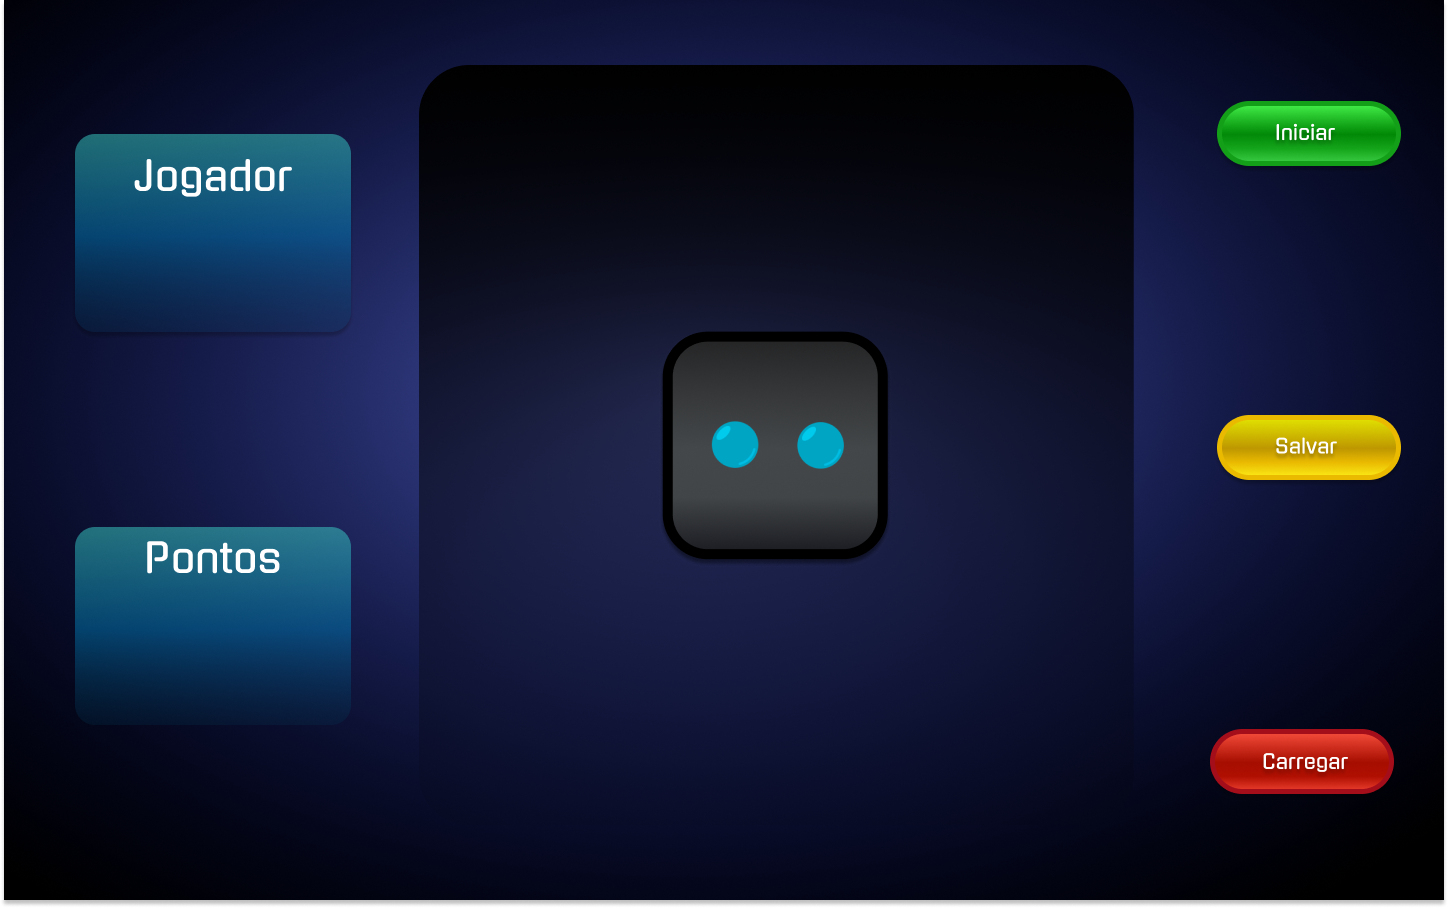
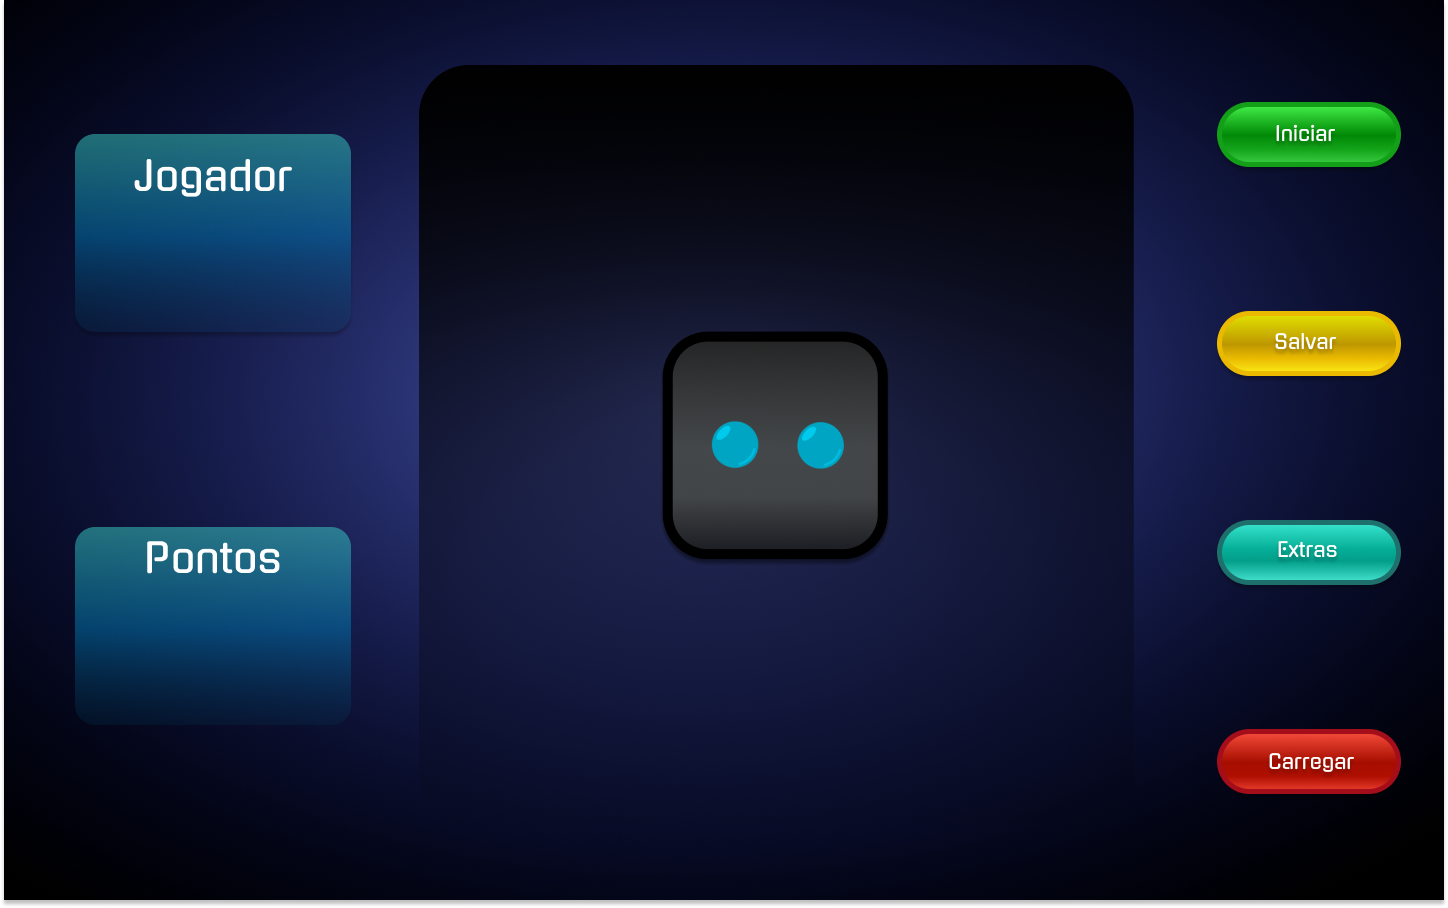
posicao de botoes alteradas e botoes movidos

Changed region(s): [[0.8391, 0.3392, 0.9945, 0.6476], [0.8391, 0.8018, 0.9634, 0.8634], [0.9012, 0.1233, 0.9323, 0.1542]]

diff --git a/src/View/TelaJogo.java b/src/View/TelaJogo.java
@@ -89,7 +89,8 @@ public class TelaJogo extends MyJPanel implements Runnable {
 		this.add(btnIniciar);
 
 		MyJLabelwithSound btnSalvar = new MyJLabelwithSound();
-		btnSalvar.setText("TOOL_TIP_TEXT_KEY");;
+		btnSalvar.setText("TOOL_TIP_TEXT_KEY");
+		;
 		btnSalvar.setBounds(1223, 293, 190, 70);
 		btnSalvar.setVisible(true);
 		this.add(btnSalvar);
@@ -103,7 +104,7 @@ public class TelaJogo extends MyJPanel implements Runnable {
 		btnExtras.setBounds(1212, 506, 190, 70);
 		btnExtras.setVisible(true);
 		this.add(btnExtras);
-		
+
 		JLabel lblFundoJogo = new JLabel();
 		lblFundoJogo.setIcon(new ImageIcon(this.getImagesPath() + "fundojOGO.png"));
 		lblFundoJogo.setBounds(0, 0, 1444, 881);
@@ -192,10 +193,19 @@ public class TelaJogo extends MyJPanel implements Runnable {
 		});
 	}
 
-	private void keyMapping(GeniusLabels geniusLabel) {
+	private void keyAndMouseMapping(GeniusLabels geniusLabel) {
 		geniusLabel.getInputMap(JComponent.WHEN_IN_FOCUSED_WINDOW).put(KeyStroke.getKeyStroke(geniusLabel.getKeyChar()),
 				geniusLabel.toString());
 		geniusLabel.getActionMap().put(geniusLabel.toString(), new KeyButtonMaps(geniusLabel, this));
+		geniusLabel.addMouseListener(new MouseAdapter() {
+			@Override
+			public void mouseClicked(MouseEvent e) {
+				if (e.getSource() != geniusLabel) {
+					return;
+				}
+				getInformacoes(geniusLabel);
+			}
+		});
 	}
 
 	private void instanciaBotoes() {
@@ -215,26 +225,23 @@ public class TelaJogo extends MyJPanel implements Runnable {
 		GeniusLabels lblAzul = new AzulLabel();
 		lblAzul.setBounds(447, 78, 322, 316);
 		lblAzul.setIcon(new ImageIcon(this.getImagesPath() + "azul.png"));
-		lblAzul.addMouseListener(new AcaodoGenius(lblAzul, this));
 		GeniusLabels lblVermelho = new VermelhoLabel();
 		lblVermelho.setIcon(new ImageIcon(this.getImagesPath() + "vermelho 1.png"));
 		lblVermelho.setBounds(447, 474, 322, 316);
-		lblVermelho.addMouseListener(new AcaodoGenius(lblVermelho, this));
 		GeniusLabels lblAmarelo = new AmareloLabel();
 		lblAmarelo.setIcon(new ImageIcon(this.getImagesPath() + "amarelo 1.png"));
 		lblAmarelo.setBounds(807, 78, 322, 316);
-		lblAmarelo.addMouseListener(new AcaodoGenius(lblAmarelo, this));
 		GeniusLabels lblVerde = new VerdeLabel();
 		lblVerde.setIcon(new ImageIcon(this.getImagesPath() + "verde 1.png"));
 		lblVerde.setBounds(807, 474, 322, 316);
-		lblVerde.addMouseListener(new AcaodoGenius(lblVerde, this));
+
 		geniusLabels.add(lblAzul);
 		geniusLabels.add(lblAmarelo);
 		geniusLabels.add(lblVermelho);
 		geniusLabels.add(lblVerde);
 		for (int i = 0; i < geniusLabels.size(); i++) {
 			this.add(geniusLabels.get(i));
-			keyMapping(geniusLabels.get(i));
+			keyAndMouseMapping(geniusLabels.get(i));
 		}
 	}
 

diff --git a/src/View/TelaPlacar.java b/src/View/TelaPlacar.java
@@ -41,13 +41,13 @@ public class TelaPlacar extends MyJPanel {
         lblVoltar.setVisible(true);
         this.add(lblVoltar);
 
-                MyJLabelwithSound lblEmpate = new MyJLabelwithSound();
+        MyJLabelwithSound lblEmpate = new MyJLabelwithSound();
         lblEmpate.setIcon(new ImageIcon(this.getImagesPath() + "botaoDesempate.png"));
-        lblEmpate.setBounds(100, 812, 152, 58);
+        this.add(lblEmpate);
+        lblEmpate.setBounds(60, 812, 152, 58);
         lblEmpate.setVisible(true);
         lblEmpate.setText("TOOL_TIP_TEXT_KEY aaaaaaaaaaaaaaaaaa");
-        this.add(lblEmpate);
-                lblEmpate.setEnabled(false);
+        lblEmpate.setEnabled(false);
 
         JLabel lblFundoJogo = new JLabel("");
         lblFundoJogo.setIcon(new ImageIcon(this.getImagesPath() + "tela placar.png"));
@@ -73,9 +73,6 @@ public class TelaPlacar extends MyJPanel {
 
             }
         });
-
-        
-
 
         if (jogo.temEmpate()) {
             System.out.println("tem empate");
